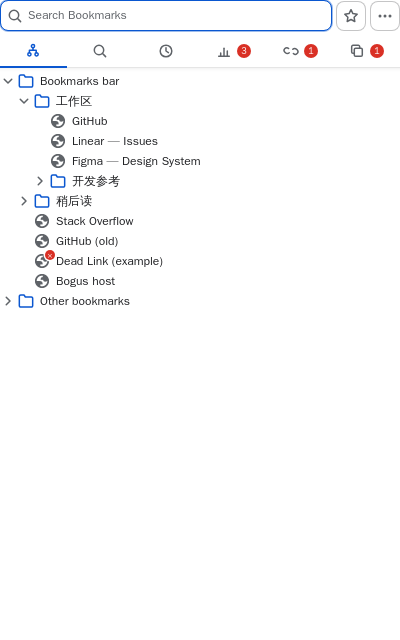
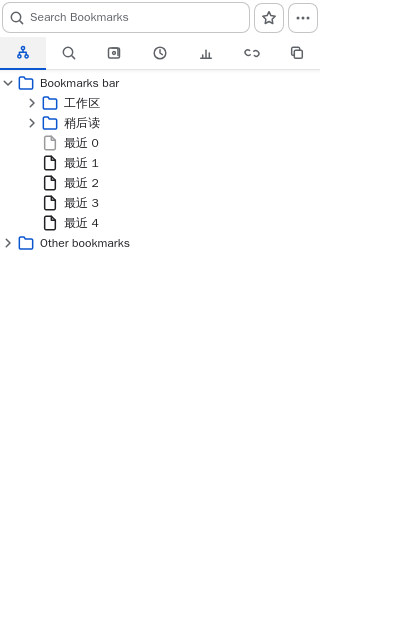
docs(4.1.0 发版就绪): 查漏补缺收口——①视图命名统一「暂存/最近」（README 视图系统行/指南 §1 表与键盘表/§5 精简表，与选项文案对齐）；②数字回填：en 键数 555→684、Vitest 套件 79→88（AGENTS ~82→~88）、门禁键盘 153→168 与滚动条 752→903（暂存/标签组两 pane 纳入后实测）；③changelog 日期 08-21→08-26；④announce.json v410 fallback 补暂存区文案；⑤重拍两张过期指南图（7-tab 条带活角标 + 暂存工作台）——新增 diag-guide-shots.js 探针

Changed region(s): [[0.0, 0.0, 1.0, 0.5]]

diff --git a/scripts/harness/diag/diag-guide-shots.js b/scripts/harness/diag/diag-guide-shots.js
@@ -1,0 +1,117 @@
+// Regenerates the two 4.1.0-stale guide screenshots:
+//   tmp/shots/tabs-themes.png  — the 7-view tab strip with live badges
+//   tmp/shots/view-recent.png  — the staging workbench (guide §3.3 walkthrough)
+// Seeds the same bookmark data the guide text describes (工作区/稍后读 folders,
+// dead links, dupes, visit stats, a staging group + dual-state rows), silences
+// the donation/what's-new asks, then captures the popup at 400x640.
+const puppeteer = require('puppeteer');
+const fs = require('fs');
+const sleep = ms => new Promise(r => setTimeout(r, ms));
+(async () => {
+    const browser = await puppeteer.launch({
+        executablePath: process.env.CHROME_BIN || '/usr/bin/chromium-browser',
+        headless: 'new',
+        args: ['--no-sandbox', '--disable-dev-shm-usage', '--disable-gpu',
+            '--load-extension=/ext', '--disable-extensions-except=/ext']
+    });
+    try {
+        await sleep(2000);
+        const targets = await browser.targets();
+        const sw = targets.find(t => t.url().startsWith('chrome-extension://') && t.type() === 'service_worker');
+        const extId = new URL(sw.url()).hostname;
+        const page = await browser.newPage();
+        await page.setViewport({ width: 400, height: 640 });
+        page.on('pageerror', e => console.log('PAGEERROR:', e.message));
+        page.setDefaultTimeout(120000);
+        await page.goto('chrome-extension://' + extId + '/pages/popup.html', { waitUntil: 'load' });
+        await sleep(1200);
+        await page.evaluate(async () => {
+            const create = props => new Promise(res => chrome.bookmarks.create(props, res));
+            const tree = await new Promise(res => chrome.bookmarks.getTree(res));
+            const bar = tree[0].children.find(c => c.id && !c.url && c.children);
+            const work = await create({ parentId: bar.id, title: '工作区' });
+            const read = await create({ parentId: bar.id, title: '稍后读' });
+            const ref = await create({ parentId: work.id, title: '开发参考' });
+            const github = await create({ parentId: work.id, title: 'GitHub', url: 'https://github.com/vBookmarks' });
+            const linear = await create({ parentId: work.id, title: 'Linear — Issues', url: 'https://linear.app/vBookmarks/issues' });
+            const figma = await create({ parentId: work.id, title: 'Figma — Design System', url: 'https://www.figma.com/files/design-system' });
+            const so = await create({ parentId: read.id, title: 'Stack Overflow', url: 'https://stackoverflow.com/questions/tagged/chrome-extension' });
+            const old = await create({ parentId: read.id, title: 'GitHub (old)', url: 'https://github.com/windviki/neat-bookmarks' });
+            const dead1 = await create({ parentId: read.id, title: 'Dead Link (example)', url: 'https://example.invalid/dead-page' });
+            const dead2 = await create({ parentId: read.id, title: 'Bogus host', url: 'https://thishost.does.not.exist.example/' });
+            // Dupe group → dupes badge 1
+            for (let c = 0; c < 4; c++)
+                await create({ parentId: read.id, title: 'Stack Overflow (copy ' + c + ')', url: so.url });
+
+            const now = Date.now();
+            // Staging workbench: one manual group (3 bookmarked members), two
+            // loose bookmarked rows, one unbookmarked history item → badge 6
+            const items = [
+                { id: github.id, url: github.url, title: github.title, ts: now - 60000, group: 'g1' },
+                { id: linear.id, url: linear.url, title: linear.title, ts: now - 120000, group: 'g1' },
+                { id: figma.id, url: figma.url, title: figma.title, ts: now - 180000, group: 'g1' },
+                { id: so.id, url: so.url, title: so.title, ts: now - 240000, group: null },
+                { id: old.id, url: old.url, title: old.title, ts: now - 300000, group: null },
+                { id: null, url: 'https://hist.example/x', title: '未收藏历史条目', ts: now - 1000, group: null }
+            ];
+            const groups = [{ id: 'g1', name: '工作台分组', collapsed: false, createdAt: now, sourceFolderId: null, sourceTabGroup: null, manual: true }];
+            // Recently-added list below the fold: 今天 2 / 本周 1 / 本月 1 / 更早 1
+            for (let i = 0; i < 5; i++)
+                await create({ parentId: bar.id, title: '最近 ' + i, url: 'https://shotr.example/' + i });
+            // Visit stats on three 工作区 bookmarks → stats badge 3
+            const visitStats = {};
+            for (const id of [github.id, linear.id, figma.id])
+                visitStats[id] = { c: 3 + (id === github.id ? 4 : 0), t: now };
+            // Dead scan results for the two dead rows → dead badge 2
+            await new Promise(res => chrome.storage.local.set({
+                staging: JSON.stringify({ v: 1, items, groups, recentCollapsed: false, unfavCollapsed: false, headCollapsed: false, recentGroupCollapsed: {}, lastSeenTs: 0 }),
+                visitStats: JSON.stringify(visitStats),
+                deadLastScan: JSON.stringify({
+                    ts: now - 3600e3,
+                    scannedCount: 8,
+                    results: {
+                        [dead1.id]: { status: 'dead', code: 404 },
+                        [dead2.id]: { status: 'dead', code: 0, error: 'ERR_NAME_NOT_RESOLVED' }
+                    }
+                }),
+                // Silence the donation ask + the 4.x→4.1.0 what's-new banner
+                currentVersion: chrome.runtime.getManifest().version,
+                donationFactor: 1,
+                donationKey: 30
+            }, res));
+        });
+        await page.reload({ waitUntil: 'load' });
+        await sleep(1800);
+        // Expand the Bookmarks bar so the seeded folders show, and cycle every
+        // view once — activation re-runs updateBadges with hydrated data, so
+        // the tab badges (staging 6 / stats 3 / dead 2 / dupes 1) are live.
+        await page.evaluate(() => {
+            // The tree fold toggle listens for clicks on the row's
+            // .tree-item-span (a <b> twisty is not a click target).
+            const barRow = document.querySelector('#tree ul li');
+            const span = barRow && barRow.querySelector('.tree-item-span');
+            console.log('DBG twisty:', !!span, barRow && barRow.className);
+            if (span) span.click();
+        });
+        await sleep(600);
+        console.log('DBG tree after:', await page.evaluate(() => {
+            const li = document.querySelector('#tree ul li');
+            return li ? li.outerHTML.slice(0, 300) : 'no li';
+        }));
+        console.log('DBG badges:', await page.evaluate(() =>
+            [...document.querySelectorAll('.tab-badge')].map(b => `${b.hidden ? 'h' : 'v'}:${b.textContent}`).join(',')));
+        for (const tab of ['search', 'tabgroups', 'recent', 'stats', 'dead', 'dupes', 'tree']) {
+            await page.click('#view-tab-' + tab).catch(() => {});
+            await sleep(450);
+        }
+        console.log('DBG badges after cycle:', await page.evaluate(() =>
+            [...document.querySelectorAll('.tab-badge')].map(b => `${b.hidden ? 'h' : 'v'}:${b.textContent}`).join(',')));
+        await sleep(600);
+        if (!fs.existsSync('/tmp/shots')) fs.mkdirSync('/tmp/shots', { recursive: true });
+        await page.screenshot({ path: '/tmp/shots/tabs-themes.png' });
+        await page.click('#view-tab-recent');
+        await sleep(1800);
+        await page.screenshot({ path: '/tmp/shots/view-recent.png' });
+        console.log('guide shots saved');
+    } finally { await browser.close(); }
+})().catch(e => { console.error('FAIL:', e.message); process.exit(1); });

diff --git a/docs/README.md b/docs/README.md
@@ -39,7 +39,7 @@ Licensed under the [MIT License](http://www.opensource.org/licenses/mit-license.
 
 ## The view system
 
-- **Seven views**: **Tree** (the classic), **Search**, **Tab groups**, **Recent**, **Stats**, **Dead links**, **Duplicates**. The icon tab strip shows live count badges (dead marks, dupe groups, tracked pages) and each feature view (Tab groups/Recent/Stats/Dead links/Duplicates) can be hidden — or fully disabled — per view, or the whole strip can go for the classic single-pane layout.
+- **Seven views**: **Tree** (the classic), **Search**, **Tab groups**, **Staging** (the recent list lives inside), **Stats**, **Dead links**, **Duplicates**. The icon tab strip shows live count badges (dead marks, dupe groups, tracked pages) and each feature view (Tab groups/Staging/Stats/Dead links/Duplicates) can be hidden — or fully disabled — per view, or the whole strip can go for the classic single-pane layout.
 - **One keyboard model everywhere** — the tree's mature semantics (arrows, `Home`/`End`, `PageUp`/`PageDown`, `Enter`, `F2`, `Delete`, type-ahead) now work identically in every list view; `↑` past the first row steps up to the tab strip, then the search box; the strip itself is arrow/Home/End navigable with roving tabindex and RTL awareness; `Alt+1…7` jumps straight to a view (portable across Chrome and Edge, which reserves `Ctrl+1…8` for its own tabs).
 - **Layered `Esc`** — context menu → command palette → view-level action (e.g. pausing a scan) → clear search → back to tree → close, always peeling one layer at a time.
 - **Popup vs panel** — both reopen on the view you left (the popup via the default-on *remember the last view* switch — turn it off for the classic always-tree boot), and the side panel is ready to become your always-on bookmark workspace.
@@ -58,9 +58,10 @@ Licensed under the [MIT License](http://www.opensource.org/licenses/mit-license.
 - **Bookmarks meet tabs**: one click files a tab into your quick-add folder; a whole group saves as a bookmark folder and remembers its color and title, so *open as tab group* later restores it looking the same.
 - **Recently closed groups** live at the bottom (depth configurable 5–50): reopen the whole set, or restore/bookmark/forget individual tabs.
 
-## Recent view
+## Staging / Recent view
 
-- The old in-tree "recently added" strip grew up into its own tab: your newest bookmarks grouped into **Today / This week / This month / Older**, each row with a relative-time badge and a `path · exact time` second line.
+- The old in-tree "recently added" strip grew up into a **staging workbench** — a scratch desk for links you're not sure about yet (the full walkthrough lives in the [v4 guide](guide-v4.md) §3.3). Rows are dual-state: a solid ★ means the item is bookmarked, an outline ☆ means it's merely parked in staging. Build your own groups — drag rows between groups, drag group heads to reorder — and batch open / favorite / group / move / copy / delete / remove-from-staging with selection mode; destructive actions leave an undo toast.
+- Your newest bookmarks stay grouped into **Today / This week / This month / Older**, each row with a relative-time badge and a `path · exact time` second line.
 - `R` (or right-click) reveals any row in the tree; an optional one-time import from Chrome history (off by default, permission requested only if you opt in) back-fills older visits.
 
 ## Stats view — your actual usage
@@ -106,9 +107,9 @@ Licensed under the [MIT License](http://www.opensource.org/licenses/mit-license.
 
 ## Engineering
 
-- **Unit tests** across 79 Vitest suites, covering every module — including contract tests that pin the row-alignment geometry, the z-index layering table, per-theme badge contrast and the horizontal-scrollbar protection contract (every scrollable pane clips `overflow-x`, text slots ellipsis, fixed slots `flex: none`, zoom rules never alter geometry). The live count is `npm run test:run` output (and the CI badge).
-- **Docker harness**: zero-console-error smoke, a real-browser keyboard/view verification suite (tab-strip keyboard model, focus zones, header-row arrow chain, per-view ↑↓/past-top crossings with the in-list toolbar rungs — the dead view stacks two, custom palette commands end-to-end, banner keyboard reachability, search dual-zone, per-view rendering — 153 hard assertions), a scrollbar matrix probe (screen resolution × browser zoom × in-extension zoom × popup size sweep, no horizontal scrollbar on any pane — 752 assertions), and screenshot suites across 5 themes and 8 UI languages (with an RTL mirroring check).
-- Unified locale tooling (`scripts/i18n.py`): audit, missing-key reports, LLM batch translation, verify gate. Baseline grew from 75 to **345 keys** at 4.0 (**555** as of 4.1.0), all 43 locales aligned.
+- **Unit tests** across 88 Vitest suites, covering every module — including contract tests that pin the row-alignment geometry, the z-index layering table, per-theme badge contrast and the horizontal-scrollbar protection contract (every scrollable pane clips `overflow-x`, text slots ellipsis, fixed slots `flex: none`, zoom rules never alter geometry). The live count is `npm run test:run` output (and the CI badge).
+- **Docker harness**: zero-console-error smoke, a real-browser keyboard/view verification suite (tab-strip keyboard model, focus zones, header-row arrow chain, per-view ↑↓/past-top crossings with the in-list toolbar rungs — the dead view stacks two, the tab-groups view three nesting levels, custom palette commands end-to-end, banner keyboard reachability, search dual-zone, per-view rendering — 168 hard assertions), a scrollbar matrix probe (screen resolution × browser zoom × in-extension zoom × popup size sweep, no horizontal scrollbar on any pane, the staging and tab-groups panes included — 903 assertions), and screenshot suites across 5 themes and 8 UI languages (with an RTL mirroring check).
+- Unified locale tooling (`scripts/i18n.py`): audit, missing-key reports, LLM batch translation, verify gate. Baseline grew from 75 to **345 keys** at 4.0 (**684** as of 4.1.0), all 43 locales aligned.
 - **CI**: GitHub Actions runs the unit suites, the i18n gates and the release packaging on every push and PR.
 - Repository organized for the v4 era: `src/`, `pages/`, `css/`, `assets/`, `scripts/`; obsolete artifacts (old `release/*.crx`, MV2 leftovers) live on in git history.
 
@@ -210,7 +211,7 @@ python3 scripts/package.py         # → tmp/vBookmarks_<version>.zip
 
 ### v4.1.0
 
-*2026-08-21*
+*2026-08-26*
 
 #### New
 

diff --git a/docs/README.zh.md b/docs/README.zh.md
@@ -39,7 +39,7 @@ vBookmarks
 
 ## 视图系统
 
-- **七个视图**：**树**（经典）、**搜索**、**标签组**、**最近**、**统计**、**死链**、**重复**。图标 tab 条带实时计数角标（死链标记数、重复组数、已统计页面数）；每个功能视图（标签组/最近/统计/死链/重复）都可单独隐藏——甚至彻底禁用——整条 tab 条也可隐藏，回到经典单栏布局。
+- **七个视图**：**树**（经典）、**搜索**、**标签组**、**暂存/最近**、**统计**、**死链**、**重复**。图标 tab 条带实时计数角标（死链标记数、重复组数、已统计页面数）；每个功能视图（标签组/暂存/统计/死链/重复）都可单独隐藏——甚至彻底禁用——整条 tab 条也可隐藏，回到经典单栏布局。
 - **全视图同一套键盘模型** —— 树视图成熟的方向键语义（↑↓、`Home`/`End`、`PageUp`/`PageDown`、`Enter`、`F2`、`Delete`、键入过滤）在每个列表视图完全一致；首行再按 `↑` 逐级上到 tab 条、再到搜索框；tab 条本身支持 ←/→/Home/End 漫游焦点与 RTL 感知；`Alt+1…7` 直达视图（Chrome 与 Edge 通用的写法——Edge 把 `Ctrl+1…8` 保留给了自己的标签页切换）。
 - **分层 `Esc`** —— 右键菜单 → 命令面板 → 视图级动作（如暂停扫描）→ 清空搜索 → 回到树 → 关闭弹窗，一次只剥一层。
 - **弹窗与侧栏分工** —— 两者默认都在你上次离开的视图重新打开（弹窗靠的是默认开启的"记住上次所在的视图"开关，关掉则总是从树启动）；侧边栏随时可以变成常驻的书签工作台。
@@ -58,9 +58,10 @@ vBookmarks
 - **标签与书签互通**：一键把标签收进快速添加文件夹；整组可存为书签文件夹并记住组的颜色与标题，日后"打开为新标签组"时原样恢复。
 - **最近关闭的组**列在底部（深度 5–50 可调）：整组重开，或逐个标签恢复/加书签/移除。
 
-## 最近视图
+## 暂存 / 最近视图
 
-- 旧的树内"最近添加"区独立成 tab：最新书签按**今天 / 本周 / 本月 / 更早**粗分组，每行右侧相对时间徽章，第二行 `路径 · 精确时间`。
+- 旧的树内"最近添加"区长成了**暂存工作台**——一张留给"还没想好放哪"的链接的草稿桌（完整走查见 [v4 功能指南](guide-v4.zh.md) §3.3）。行是双态的：实心 ★ 表示已收藏，描边 ☆ 表示只是暂存。分组由你搭建——行可在组间拖拽、组头可拖拽重排——选择模式可批量打开 / 收藏 / 分组 / 移动 / 复制 / 删除 / 移出暂存区；破坏性操作都留有撤销 toast。
+- 最新书签仍按**今天 / 本周 / 本月 / 更早**粗分组，每行右侧相对时间徽章，第二行 `路径 · 精确时间`。
 - 按 `R`（或右键）在树中定位；可选地从 Chrome 历史一次性回填更早的访问（默认关闭，仅在你主动开启时请求权限）。
 
 ## 统计视图——你的真实使用
@@ -106,9 +107,9 @@ vBookmarks
 
 ## 工程
 
-- **单元测试**覆盖 79 个 Vitest 套件的全部模块——含钉住行对齐几何、z-index 层级表、各主题徽标对比度、以及横向滚动条防护契约（每个滚动容器裁剪 overflow-x、文本槽省略号、固定槽 flex:none、zoom 规则不改几何）的契约测试。实时用例数以 `npm run test:run` 输出（及 CI 徽章）为准。
-- **Docker harness**：零控制台错误冒烟、真实浏览器键盘/视图验证套件（tab 条键盘模型、焦点区域、头部行方向链、各视图 ↑↓ 越顶含死链视图双工具行层级、横幅键盘可达、搜索双区、逐视图渲染、面板自定义指令——153 条硬断言）、滚动条矩阵探针（屏幕分辨率 × 浏览器 zoom × 扩展内 zoom × popup 尺寸扫描，任何滚动容器无横向滚动条——752 条断言），以及 5 主题 × 8 界面语言的截图套件（含 RTL 镜像断言）。
-- 统一语言工具（`scripts/i18n.py`）：审计、缺失报告、LLM 批量翻译、verify 门禁。基准键从 75 增至 **345**（4.1.0 起 **555**），43 个语种全部对齐。
+- **单元测试**覆盖 88 个 Vitest 套件的全部模块——含钉住行对齐几何、z-index 层级表、各主题徽标对比度、以及横向滚动条防护契约（每个滚动容器裁剪 overflow-x、文本槽省略号、固定槽 flex:none、zoom 规则不改几何）的契约测试。实时用例数以 `npm run test:run` 输出（及 CI 徽章）为准。
+- **Docker harness**：零控制台错误冒烟、真实浏览器键盘/视图验证套件（tab 条键盘模型、焦点区域、头部行方向链、各视图 ↑↓ 越顶含死链视图双工具行层级、标签组视图三级嵌套、横幅键盘可达、搜索双区、逐视图渲染、面板自定义指令——168 条硬断言）、滚动条矩阵探针（屏幕分辨率 × 浏览器 zoom × 扩展内 zoom × popup 尺寸扫描，任何滚动容器无横向滚动条，暂存与标签组两个 pane 已纳入——903 条断言），以及 5 主题 × 8 界面语言的截图套件（含 RTL 镜像断言）。
+- 统一语言工具（`scripts/i18n.py`）：审计、缺失报告、LLM 批量翻译、verify 门禁。基准键从 75 增至 **345**（4.1.0 起 **684**），43 个语种全部对齐。
 - **CI**：GitHub Actions 在每次 push 与 PR 上跑单测、i18n 门禁与发布打包。
 - 目录结构 v4 重组：`src/`、`pages/`、`css/`、`assets/`、`scripts/`；过时产物（旧 `release/*.crx`、MV2 遗留）留存于 git 历史。
 
@@ -210,7 +211,7 @@ python3 scripts/package.py         # → tmp/vBookmarks_<版本>.zip
 
 ### v4.1.0
 
-*2026-08-21*
+*2026-08-26*
 
 #### 新增
 

diff --git a/docs/guide-v4.md b/docs/guide-v4.md
@@ -26,7 +26,7 @@
 | Tree | The classic hierarchical bookmark tree (startup view) | `Alt+1` |
 | Search | Dual-zone search: history on top, results below | `Alt+2` |
 | Tab groups | Every window's tabs and Chrome tab groups, next to your bookmarks | `Alt+3` |
-| Recent | Newest bookmarks, grouped Today / This week / This month / Older | `Alt+4` |
+| Staging / Recent | The staging workbench (inbox + your groups) over the recently-added list | `Alt+4` |
 | Stats | Local visit statistics + a recently-visited section | `Alt+5` |
 | Dead links | Dual-channel dead-link scanner with pause/resume | `Alt+6` |
 | Duplicates | Duplicate cleaner with six keeper strategies | `Alt+7` |
@@ -36,7 +36,7 @@
 (Tabs carry one 16px line icon per view plus a localized label; on narrow widths the label hides and the icon stays.)
 
 - **Badges**: the count on a tab tracks that view's pressing items (dead marks, dupe groups, tracked pages), refreshed live; turn them off with *Show count badges on the view tabs* (`showTabBadges`).
-- **Visibility**: Settings → the *Views* group hides (or fully disables) each feature view — Tab groups/Recent/Stats/Dead/Duplicates — individually, or the whole strip — see [§5](#5-getting-the-classic-look-and-feel-back).
+- **Visibility**: Settings → the *Views* group hides (or fully disables) each feature view — Tab groups/Staging/Stats/Dead/Duplicates — individually, or the whole strip — see [§5](#5-getting-the-classic-look-and-feel-back).
 - **Popup vs side panel**: both reopen on the view you left — the popup because *Remember the last active view* (`rememberView`) is on by default (turn it off to always boot on the tree), the side panel (opt-in via `openInSidePanel`, `Alt+Shift+B`) always, ready to be an always-on workspace. Closing the side panel via the toolbar toggle hands control straight back to the popup — the service worker learns of the close instantly (Chrome 142+) or probes with an alarm (114–141). Reopening also restores **where the focus was** — the search box, a header button, a view tab, a toolbar control or the exact list row (gated by *Remember previous state*: with that option off every open starts completely fresh).
 
 ## 2. Full keyboard reference
@@ -87,7 +87,7 @@ Inside every context menu (all seven are keyboard-bound — the separator menu's
 
 | Key | Where | Action |
 |---|---|---|
-| `R` | Search/Recent/Dead/Duplicates | **Reveal in tree** |
+| `R` | Search/Staging/Dead/Duplicates | **Reveal in tree** |
 | `K` | Duplicates | Pin the focused row as the group's **keeper** |
 | `M` | Dead links | Toggle a **dead mark** (the red ✕ syncs across all views) |
 | `Alt+1…7` | Anywhere outside open dialogs/palette | Jump to the Nth visible view (`Ctrl/Cmd+1…7` is the legacy twin — works on Chrome's popup/panel, but Edge reserves `Ctrl+1…8` for browser-tab switching) |
@@ -154,7 +154,7 @@ Your whole browser session next to your bookmarks: every window's tabs in real o
 
 ### 3.3 Staging
 
-![Recent view](images/guide/view-recent.png)
+![Staging workbench](images/guide/view-recent.png)
 
 The former *Recent* tab is now the **staging workbench**: a scratch desk for links you're not sure about yet, with the recently-added list folded in below. The top is your staging list — an *inbox* bucket of unstaged/unbookmarked items plus the groups you build yourself. Rows are dual-state: a solid ★ means the item is bookmarked, an outline ☆ means it's merely parked in staging. Below sits the foldable recent-adds section, still grouped **Today / This week (7 d) / This month (30 d) / Older** with the same tail labels as before.
 
@@ -226,7 +226,7 @@ Every new surface in 4.0 can be switched off. **The fastest route**: the *Restor
 | You want | Setting (options page → *Views* group, unless noted) |
 |---|---|
 | No tab strip — one tree + `Ctrl+F` search (the 3.x layout) | Turn off **Show view tabs** (`showViewTabs`). Tree and search remain the only views, shortcuts unchanged; jumping into a non-tree view then shows a toast with the Esc / command-palette way back to the tree |
-| An even quieter strip | Individually hide Stats/Dead/Duplicates (`showStatsView`/`showDeadView`/`showDupesView`) or Recent (`showRecentBookmarks`) — the tab and its `Alt+number` jump disappear; the palette command stays, so the view is still one `/stats` away |
+| An even quieter strip | Individually hide Stats/Dead/Duplicates (`showStatsView`/`showDeadView`/`showDupesView`) or Staging/Recent (`showRecentBookmarks`) — the tab and its `Alt+number` jump disappear; the palette command stays, so the view is still one `/stats` away |
 | Hide one view on the fly | Right-click a feature-view tab → **Hide** (or press **ContextMenu** / **Shift+F10** on the tab) — same as unchecking that view's *Show …* option. The tab and its `Alt+number` jump disappear; the palette command remains and entering that way shows the return-path toast. Tree and Search tabs are fixed — hiding one of them hides the whole strip instead (same as turning off *Show view tabs*) |
 | Disable a view entirely | Right-click a feature-view tab → **Disable**, or use the options page: each *Show … view* row has an **Enabled/Disabled** state and an **Enable/Disable** button. Disabled greys out that show option and removes every entry point and function of the view until re-enabled |
 | No command palette | Turn off **Enable the command palette** (`paletteEnabled`) — `Ctrl/Cmd+K` and the global wake-up both stand down |

diff --git a/docs/guide-v4.zh.md b/docs/guide-v4.zh.md
@@ -26,7 +26,7 @@
 | 树 Tree | 经典层级书签树（默认启动视图） | `Alt+1` |
 | 搜索 Search | 双区搜索：上区历史、下区结果 | `Alt+2` |
 | 标签组 Tab groups | 每个窗口的标签页与 Chrome 标签组，就在书签旁边 | `Alt+3` |
-| 最近 Recent | 最近添加，按今天/本周/本月/更早分组 | `Alt+4` |
+| 暂存/最近 Staging | 暂存工作台（收件箱 + 自建分组），最近添加列表在其下 | `Alt+4` |
 | 统计 Stats | 本地访问统计 + 最近访问分区 | `Alt+5` |
 | 死链 Dead | 双通道死链扫描，可暂停/恢复 | `Alt+6` |
 | 重复 Dupes | 重复书签清理，六种保留策略 | `Alt+7` |
@@ -36,7 +36,7 @@
 （tab 上是每视图一枚 16px 线条图标 + 本地化标签，窄宽度下标签自动隐藏只留图标。）
 
 - **角标**：tab 上的数字徽章实时显示该视图的要事数量（死链标记数、重复组数、已统计条目数）；可在设置里关闭"在视图标签上显示数量角标"（`showTabBadges`）。
-- **显隐**：设置 →"视图"分组里可单独隐藏（或彻底禁用）每个功能视图——标签组/最近/统计/死链/重复——或整条隐藏 tab 条（见 [§5](#5-回到经典外观与行为)）。
+- **显隐**：设置 →"视图"分组里可单独隐藏（或彻底禁用）每个功能视图——标签组/暂存/统计/死链/重复——或整条隐藏 tab 条（见 [§5](#5-回到经典外观与行为)）。
 - **弹窗 vs 侧栏**：两者默认都会在你上次离开的视图重新打开——弹窗靠的是"记住上次所在的视图"（`rememberView`，默认开；关掉则总是从树启动），侧边栏（设置开启 `openInSidePanel`，`Alt+Shift+B` 呼出）则始终记住，随时可当作常驻工作台。经工具栏开关关闭侧边栏后，控制权即时交还弹窗——service worker 即时获知侧栏关闭（Chrome 142+）或经 alarms 轮询探测（114–141）。重开时还会恢复**焦点所在的位置**——搜索框、头部按钮、视图 tab、工具行控件或具体的列表行（受"记住上次状态"门控：关掉该选项后，每次打开都是全新启动）。
 
 ## 2. 全键盘操作手册
@@ -87,7 +87,7 @@
 
 | 键 | 在哪里 | 行为 |
 |---|---|---|
-| `R` | 搜索/最近/死链/重复 | **在树中定位**当前行 |
+| `R` | 搜索/暂存/死链/重复 | **在树中定位**当前行 |
 | `K` | 重复 | 把当前行设为该组**保留项** |
 | `M` | 死链 | 给当前行**打/消死链标记**（红 ✕ 全视图同步） |
 | `Alt+1…7` | 任意处（对话框/命令面板打开时除外） | 直达第 N 个可见视图（`Ctrl/Cmd+1…7` 是旧孪生键——Chrome 弹窗/侧边栏里可用，但 Edge 把 `Ctrl+1…8` 保留给了浏览器标签页切换） |
@@ -153,7 +153,7 @@ tab 条本身：`←` `→` 切换并激活（RTL 语言自动镜像）、`Home`
 
 ### 3.3 暂存区
 
-![最近视图](images/guide/view-recent.png)
+![暂存工作台](images/guide/view-recent.png)
 
 原来的"最近"标签页现在是**暂存区工作台**：一张留给"还没想好放哪"的链接的草稿桌，最近添加列表折叠在其下方。顶部是暂存列表——一个装未整理/未收藏条目的*收件箱*桶，加上你自己搭建的分组。行是双态的：实心 ★ 表示已收藏，描边 ☆ 表示只是暂存。下方是可折叠的最近添加区，仍按**今天 / 本周（7 天）/ 本月（30 天）/ 更早**分组，行尾标签与从前一致。
 
@@ -225,7 +225,7 @@ tab 条本身：`←` `→` 切换并激活（RTL 语言自动镜像）、`Home`
 | 想要 | 设置（选项页 →"视图"分组，除注明外） |
 |---|---|
 | 没有 tab 条，单栏树 + `Ctrl+F` 搜索（= 3.x 布局） | 关闭 **"显示视图标签栏"**（`showViewTabs`）。树与搜索仍是唯二视图，快捷键照旧；此时切到非树视图会在底部 toast 提示当前视图与返回树的 Esc / 命令面板路径 |
-| 再精简一点 | 单独关闭"显示统计/死链/重复视图"（`showStatsView`/`showDeadView`/`showDupesView`），或关掉"最近"（`showRecentBookmarks`）——tab 与 `Alt+数字` 直达键消失；面板命令保留，视图仍可从命令面板进入（如 `/stats`） |
+| 再精简一点 | 单独关闭"显示统计/死链/重复视图"（`showStatsView`/`showDeadView`/`showDupesView`），或关掉"暂存/最近"（`showRecentBookmarks`）——tab 与 `Alt+数字` 直达键消失；面板命令保留，视图仍可从命令面板进入（如 `/stats`） |
 | 就地隐藏某个视图 | 在功能视图标签上右键 → **隐藏**（或在视图标签上按 **ContextMenu** / **Shift+F10**）——等同于把该视图的"显示 … 视图"选项反选：tab 与 `Alt+数字` 直达键消失；面板命令保留，从命令面板切入时会显示返回路径 toast。树与搜索标签固定保留——对它们点"隐藏"会隐藏整条标签栏（等同于关闭"显示视图标签栏"） |
 | 彻底禁用某个视图 | 在功能视图标签上右键 → **禁用**，或在选项页操作：每条"显示 … 视图"选项后都有 **已经启用/已经禁用** 状态和一个 **禁用/启用** 按钮。禁用后该显示选项整体置灰，视图的入口与功能都被禁止，直到重新启用 |
 | 不要命令面板 | 关闭 **"启用命令面板"**（`paletteEnabled`）——`Ctrl/Cmd+K` 与全局唤醒一并失效 |

diff --git a/AGENTS.md b/AGENTS.md
@@ -58,7 +58,7 @@ npm test           # vitest in watch mode
 npm run test:run   # single run
 ```
 
-One suite per module/feature (~82); each module's row in `docs/agents/modules.md` names its own suite. Harness patterns: sandbox-eval for classic scripts, direct ESM import with chrome.*/DOM doubles on `globalThis` for the rest; shared stubs live in `tests/helpers/` (`dom`/`i18n`/`chrome`/`boot`/`classic` — use them in NEW tests). **Never copy the implementation under test into a test** — drive the real module; extract pure logic into a real module when it can't be imported (see "操作即模块" in Code Style). Full suite inventory, helper contracts and pitfalls: `docs/agents/testing.md`. `npm run lint` (ESLint flat config) is the lint gate.
+One suite per module/feature (~88); each module's row in `docs/agents/modules.md` names its own suite. Harness patterns: sandbox-eval for classic scripts, direct ESM import with chrome.*/DOM doubles on `globalThis` for the rest; shared stubs live in `tests/helpers/` (`dom`/`i18n`/`chrome`/`boot`/`classic` — use them in NEW tests). **Never copy the implementation under test into a test** — drive the real module; extract pure logic into a real module when it can't be imported (see "操作即模块" in Code Style). Full suite inventory, helper contracts and pitfalls: `docs/agents/testing.md`. `npm run lint` (ESLint flat config) is the lint gate.
 
 ### Build & packaging (release)
 
